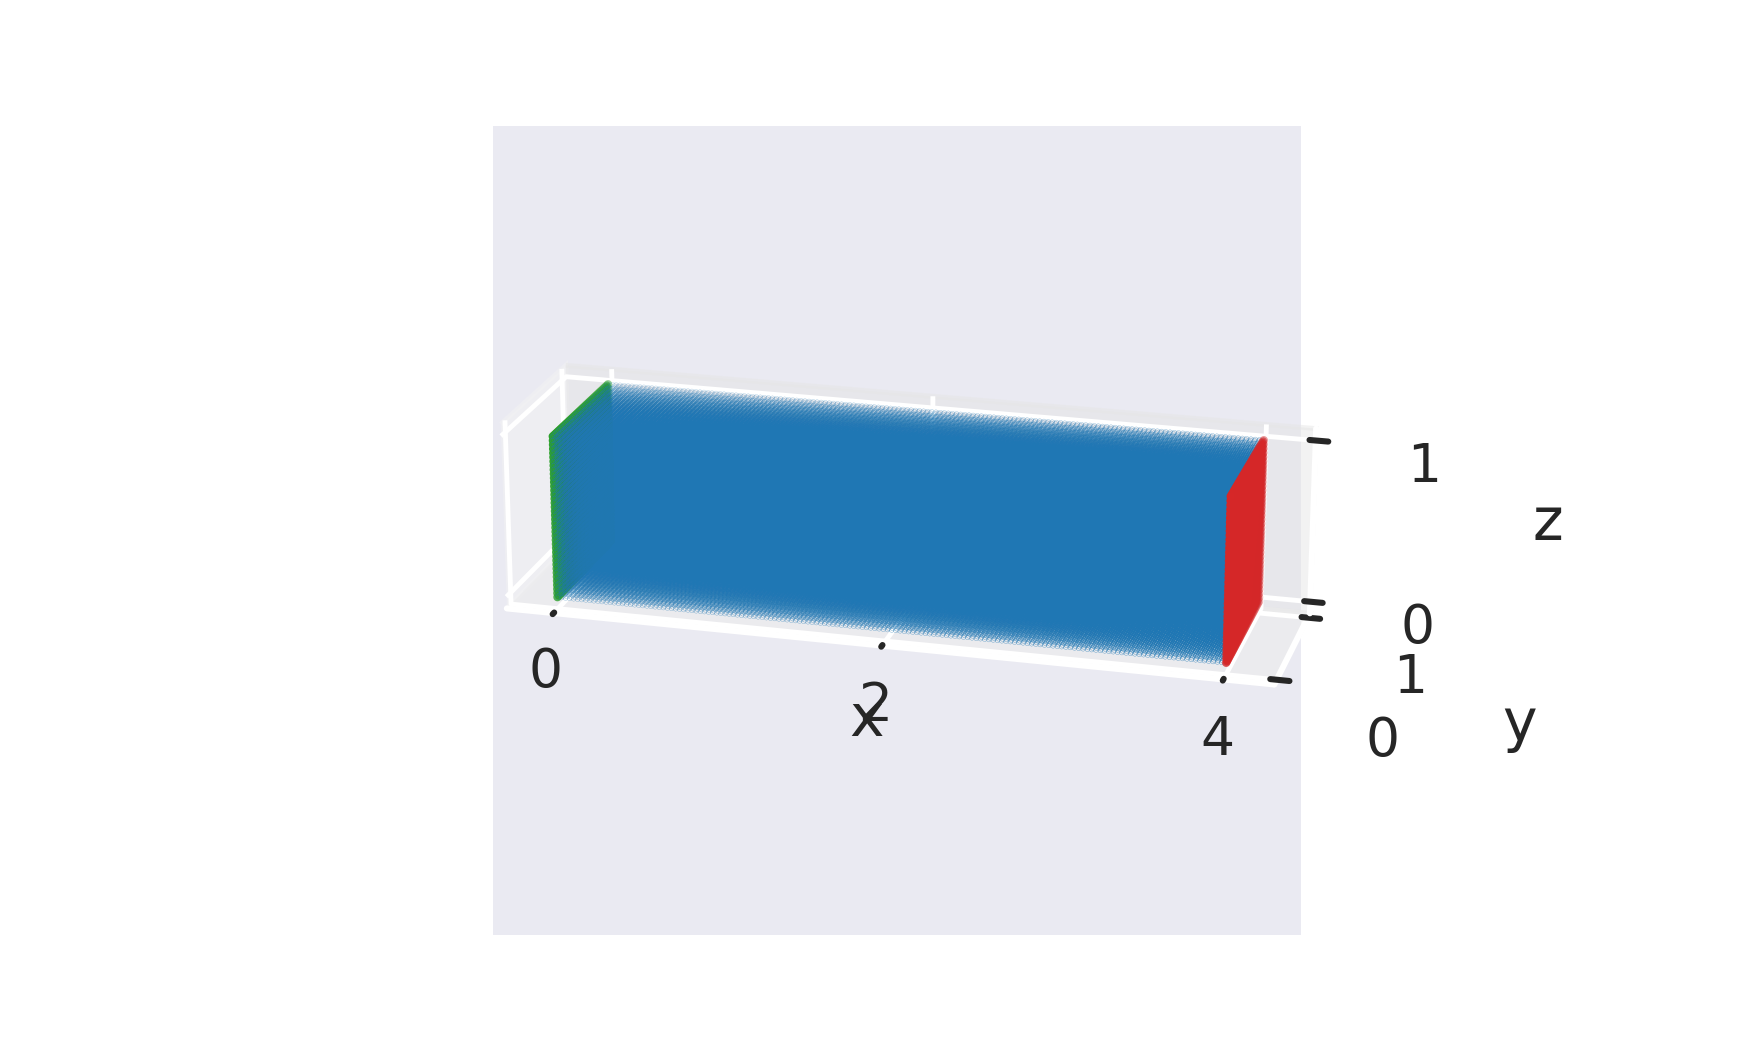
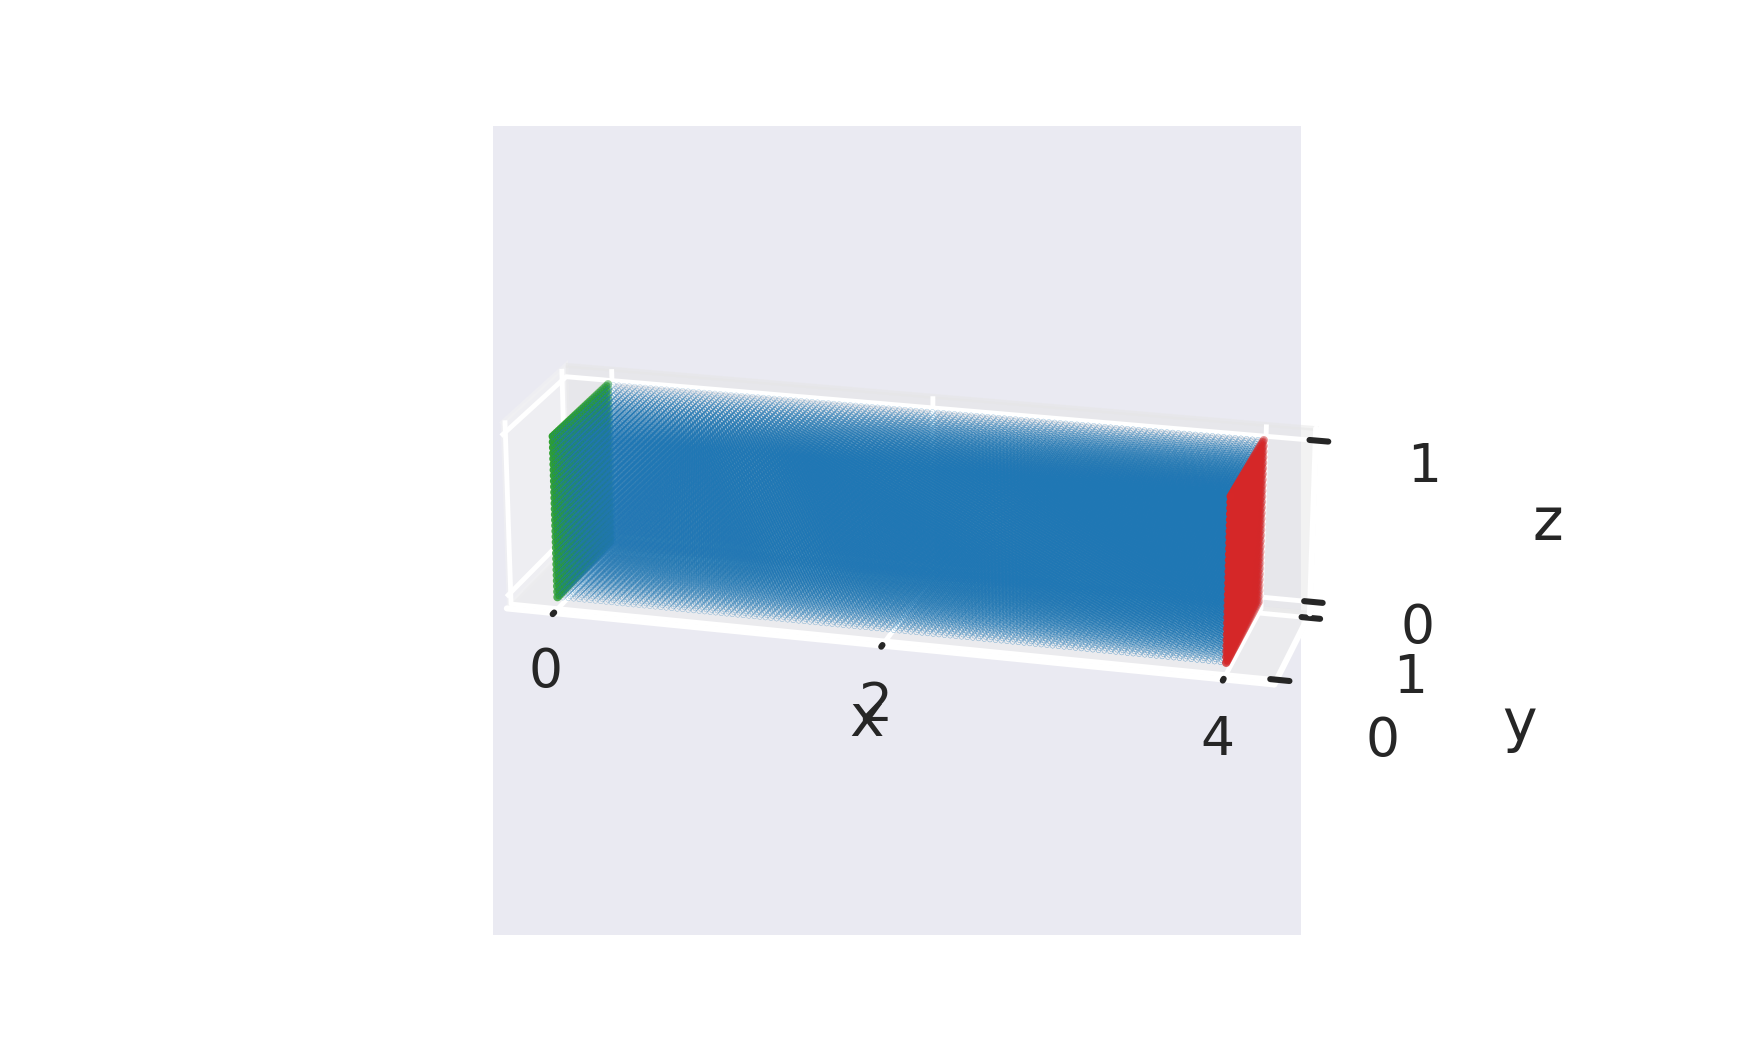
write functions for 3Dcube

Changed region(s): [[0.3086, 0.3657, 0.7097, 0.64]]

diff --git a/3DBeam/DemBeam3D.py b/3DBeam/DemBeam3D.py
@@ -16,12 +16,12 @@ sns.set()
 
 import sys
 sys.path.insert(0, "..")
-from DEM import DeepEnergyMethod, MultiLayerNet, dev
+from DEM import DeepEnergyMethod, MultiLayerNet, dev, L2norm3D
 
 # np.random.seed(2023)
 torch.manual_seed(2023)
 rng = np.random.default_rng(2023)
-dev = torch.device('cuda') if torch.cuda.is_available() else torch.device('cpu')
+
 current_path = Path.cwd().resolve()
 figures_path = current_path / 'figures'
 arrays_path = current_path / 'stored_arrays'
@@ -49,8 +49,11 @@ d_cond = [0, 0, 0]
 n_boundary = L
 n_cond = [0, -5, 0]
 
-def define_domain(L, H, D, N=25):
-    x = np.linspace(0, L, int(4*N))
+dir_bcs = {d_boundary: d_cond}
+neu_bcs = {n_boundary: n_cond}
+
+def define_domain(L, H, D, N=25, dir_bcs=None, neu_bcs=None):
+    x = np.linspace(0, L, 4*N)
     y = np.linspace(0, H, N)
     z = np.linspace(0, D, N)
 
@@ -156,20 +159,6 @@ def write_vtk_v2(filename, x_space, y_space, z_space, U):
     xx, yy, zz = np.meshgrid(x_space, y_space, z_space)
     gridToVTK(filename, xx, yy, zz, pointData={"displacement": U})
 
-def L2norm(U):
-    ### function from DEM paper ###
-    Ux = np.expand_dims(U[0].flatten(), 1)
-    Uy = np.expand_dims(U[1].flatten(), 1)
-    Uz = np.expand_dims(U[2].flatten(), 1)
-    Uxyz = np.concatenate((Ux, Uy, Uz), axis=1)
-    n = Ux.shape[0]
-    udotu = np.zeros(n)
-    for i in range(n):
-        udotu[i] = np.dot(Uxyz[i,:], Uxyz[i,:].T)
-    udotu = udotu.reshape(4*N_test, N_test, N_test)
-    L2norm = np.sqrt(sp.simps(sp.simps(sp.simps(udotu, dx=dz), dx=dy), dx=dx))
-    return L2norm
-
 ### Skrive blokkene til en egen funksjon? Kalles på helt likt inne i loopene ###
 def train_and_evaluate(Ns=20, lrs=0.1, num_neurons=20, num_layers=2, num_epochs=40, max_it=20):
     # train on many N values
@@ -186,23 +175,7 @@ def train_and_evaluate(Ns=20, lrs=0.1, num_neurons=20, num_layers=2, num_epochs=
             # evaluate model
             U_pred = DemBeam.evaluate_model(x, y, z)
             # calculate L2norm
-            u_norms[i] = L2norm(U_pred)
-    # train on many N values and learning rates
-    if isinstance((Ns and lrs), (list, tuple)):
-        print('Ns and lrs')
-        u_norms = np.zeros((len(lrs), len(Ns)))
-        for j, N in enumerate(Ns):
-            for i, lr in enumerate(lrs):
-                # define model, DEM and domain
-                model = MultiLayerNet(3, *([num_neurons]*num_layers), 3)
-                DemBeam = DeepEnergyMethod(model, energy)
-                domain, dirichlet, neumann = define_domain(L, H, D, N=N)
-                # train model
-                DemBeam.train_model(domain, dirichlet, neumann, LHD, lr=lr, max_it=max_it, epochs=num_epochs)
-                # evaluate model
-                U_pred = DemBeam.evaluate_model(x, y, z)
-                # calculate L2norm
-                u_norms[i, j] = L2norm(U_pred)
+            u_norms[i] = L2norm3D(U_pred, 4*N_test, N_test, N_test, dx, dy, dz)
     # train on many learning rates and number of neurons in hidden layers
     elif isinstance((lrs and num_neurons), (list, tuple)):
         print('lrs, num_n')
@@ -216,7 +189,7 @@ def train_and_evaluate(Ns=20, lrs=0.1, num_neurons=20, num_layers=2, num_epochs=
                 DemBeam.train_model(domain, dirichlet, neumann, LHD, lr=lr, max_it=max_it, epochs=num_epochs)
                 U_pred = DemBeam.evaluate_model(x, y, z)
 
-                u_norms[i, j] = L2norm(U_pred)
+                u_norms[i, j] = L2norm3D(U_pred, 4*N_test, N_test, N_test, dx, dy, dz)
     # train on many learning rates and number of hidden layers
     elif isinstance((lrs and num_layers), (list, tuple)):
         print('lrs, num_l')
@@ -230,7 +203,7 @@ def train_and_evaluate(Ns=20, lrs=0.1, num_neurons=20, num_layers=2, num_epochs=
                 # evaluate model
                 U_pred = DemBeam.evaluate_model(x, y, z)
 
-                u_norms[i, j] = L2norm(U_pred)
+                u_norms[i, j] = L2norm3D(U_pred, 4*N_test, N_test, N_test, dx, dy, dz)
     # train on number of neurons in hidden layers and number of hidden layers
     elif isinstance((num_neurons and num_layers), (list, tuple)):
         print('num_n, num_l')
@@ -244,14 +217,32 @@ def train_and_evaluate(Ns=20, lrs=0.1, num_neurons=20, num_layers=2, num_epochs=
                 # evaluate model
                 U_pred = DemBeam.evaluate_model(x, y, z)
 
-                u_norms[i, j] = L2norm(U_pred)
-
+                u_norms[i, j] = L2norm3D(U_pred, 4*N_test, N_test, N_test, dx, dy, dz)
+    # train on many N values and learning rates
+    elif isinstance((Ns and lrs), (list, tuple)):
+        # print(type(Ns), type(lrs), isinstance((Ns and lrs), list), Ns); exit()
+        print('Ns and lrs')
+        u_norms = np.zeros((len(lrs), len(Ns)))
+        for j, N in enumerate(Ns):
+            for i, lr in enumerate(lrs):
+                # define model, DEM and domain
+                model = MultiLayerNet(3, *([num_neurons]*num_layers), 3)
+                DemBeam = DeepEnergyMethod(model, energy)
+                domain, dirichlet, neumann = define_domain(L, H, D, N=N)
+                # train model
+                DemBeam.train_model(domain, dirichlet, neumann, LHD, lr=lr, max_it=max_it, epochs=num_epochs)
+                # evaluate model
+                U_pred = DemBeam.evaluate_model(x, y, z)
+                # calculate L2norm
+                u_norms[i, j] = L2norm3D(U_pred, 4*N_test, N_test, N_test, dx, dy, dz)
     else:
         raise Exception('You have to provide a list of N values or one of the following:\n' + 
                         '\t- lrs AND num_neurons\n\t- lrs AND num_layers\n\t- num_neurons AND num_layers')
     return u_norms
 
-def function_to_be_called_inside_train_and_eval(N, lr, num_neurons, num_layers, num_epochs, max_it):
+### implementere med define_domain som input? 
+### kan bruke samme funksjon i alle 3D filene
+def function_to_be_called_inside_train_and_eval(define_domain, N, lr, num_neurons, num_layers, num_epochs, max_it):
     # define model, DEM and domain
     model = MultiLayerNet(3, *([num_neurons]*num_layers), 3)
     DemBeam = DeepEnergyMethod(model, energy)
@@ -274,7 +265,6 @@ def plot_heatmap(data, xparameter, yparameter, title, xlabel, ylabel, figname, c
     ax.set_ylabel(ylabel)
     fig.savefig(figures_path / Path(figname + '.pdf'))
 
-
 if __name__ == '__main__':
     u_fem30 = np.load('stored_arrays/u_fem_N=30.npy')
     print(f'FEM: {L2norm(u_fem30)} \n')
@@ -290,40 +280,42 @@ if __name__ == '__main__':
     # print((U_norms - L2norm(u_fem30))/L2norm(u_fem30))
 
     # N = 30
-    # lrs = [.05, .1, .5, 1]
+    # lrs = [.05, .1, .5, .9]
     # num_layers = [2, 3, 4, 5]
     # num_neurons = 30
     # num_expreriments = 30
     # U_norms = 0
     # for i in range(num_expreriments):
-    #     U_norms += train_and_evaluate(Ns=N, lrs=lrs, num_neurons=num_neurons, num_layers=num_layers, num_epochs=40)
+    #     U_norms += train_and_evaluate(Ns=N, lrs=lrs, num_neurons=num_neurons, num_layers=num_layers, num_epochs=80)
     # U_norms /= num_expreriments
     # e_norms = (U_norms - L2norm(u_fem30)) / L2norm(u_fem30)
-    # plot_heatmap(e_norms, num_layers, lrs, rf'$L^2$ error norm with N={N} and {num_neurons} hidden neurons', 'Number of layers', r'$\eta$', 'heatmap_lrs_num_layers')
+    # plot_heatmap(e_norms, num_layers, lrs, rf'$L^2$ error norm with N={N} and {num_neurons} hidden neurons', 'Number of layers', r'$\eta$', 'heatmap_lrs_num_layers80')
 
-    Ns = [20, 30, 40, 50, 60]
-    lrs = [.05, .1, .5, .9]
+
+    N = 30
+    lrs = [.05, .1, .5, 1]
     num_layers = 3
-    num_neurons = 30
+    num_neurons = [10, 20, 30, 40, 50]
     num_expreriments = 30
     U_norms = 0
     for i in range(num_expreriments):
-        U_norms += train_and_evaluate(Ns=Ns, lrs=lrs, num_neurons=num_neurons, num_layers=num_layers, num_epochs=40)
+        U_norms += train_and_evaluate(Ns=N, lrs=lrs, num_neurons=num_neurons, num_layers=num_layers, num_epochs=80)
     U_norms /= num_expreriments
-    print(U_norms)
     e_norms = (U_norms - L2norm(u_fem30)) / L2norm(u_fem30)
-    plot_heatmap(e_norms, Ns, lrs, rf'$L^2$ error norm with {num_neurons} hidden neurons and {num_layers} hidden layers', 'N', r'$\eta$', 'heatmap_lrs_N')
+    plot_heatmap(e_norms, num_neurons, lrs, rf'$L^2$ error norm with N={N} and {num_layers} hidden layers', 'Number of neurons in hidden layers', r'$\eta$', 'heatmap_lrs_num_neurons80')
+    print(U_norms)
+    print((U_norms - L2norm(u_fem30))/L2norm(u_fem30))
 
-    # N = 30
-    # lrs = [.05, .1, .5, 1]
+
+    # Ns = [20, 30, 40, 50, 60]
+    # lrs = [.05, .1, .5, .9]
     # num_layers = 3
-    # num_neurons = [10, 20, 30, 40, 50]
+    # num_neurons = 30
     # num_expreriments = 30
     # U_norms = 0
     # for i in range(num_expreriments):
-    #     U_norms += train_and_evaluate(Ns=N, lrs=lrs, num_neurons=num_neurons, num_layers=num_layers, num_epochs=40)
+    #     U_norms += train_and_evaluate(Ns=Ns, lrs=lrs, num_neurons=num_neurons, num_layers=num_layers, num_epochs=40)
     # U_norms /= num_expreriments
+    # print(U_norms)
     # e_norms = (U_norms - L2norm(u_fem30)) / L2norm(u_fem30)
-    # plot_heatmap(e_norms, num_neurons, lrs, rf'$L^2$ error norm with N={N} and {num_layers} hidden layers', 'Number of neurons in hidden layers', r'$\eta$', 'heatmap_lrs_num_neurons')
-    # print(U_norms)q
-    # print((U_norms - L2norm(u_fem30))/L2norm(u_fem30))
+    # plot_heatmap(e_norms, Ns, lrs, rf'$L^2$ error norm with {num_neurons} hidden neurons and {num_layers} hidden layers', 'N', r'$\eta$', 'heatmap_lrs_N')

diff --git a/CubeEx/DemCube.py b/CubeEx/DemCube.py
@@ -4,21 +4,29 @@ import matplotlib.pyplot as plt
 import torch
 from torch import nn
 from torch.autograd import grad
+from pyevtk.hl import gridToVTK
+from pathlib import Path
 
 import matplotlib
 matplotlib.rcParams['figure.dpi'] = 350
 
 import sys
 sys.path.insert(0, "..")
-from DEM import DeepEnergyMethod, dev, MultiLayerNet
+from DEM import DeepEnergyMethod, dev, MultiLayerNet, L2norm3D
 
 torch.manual_seed(2023)
 rng = np.random.default_rng(2023)
 # dev = torch.device('cuda') if torch.cuda.is_available() else torch.device('cpu')
 
-N = 20
+current_path = Path.cwd().resolve()
+figures_path = current_path / 'figures'
+arrays_path = current_path / 'stored_arrays'
+models_path = current_path / 'trained_models'
+
+N_test = 20
 L = H = D = 1.0
-dx = dy = dz = L/N
+LHD = [L, H, D]
+dx = dy = dz = L/N_test
 
 d_boundary = 0.0
 d_cond = [0, 0, 0]
@@ -26,8 +34,8 @@ d_cond = [0, 0, 0]
 n_boundary = L
 n_cond = [-0.5, 0, 0]
 
-def domain(l, h, d, N=25):
-    x = np.linspace(0, L, int(4*N))
+def define_domain(l, h, d, N=25):
+    x = np.linspace(0, L, N)
     y = np.linspace(0, H, N)
     z = np.linspace(0, D, N)
 
@@ -103,7 +111,7 @@ nu = 0.3
 mu = E / (2*(1 + nu))
 
 # mu = 15
-def Psi(u, x):
+def energy(u, x):
     # f0 = torch.from_numpy(np.array([1, 0, 0]))
     kappa = 1e3
     Ta = 1.0
@@ -134,24 +142,97 @@ def Psi(u, x):
     return compressibility + neo_hookean + active_stress_energy
 
 
-def loss_squared_sum(input, target):
-    return torch.sum((input - target)**2, dim=1) / input.shape[1]*input.data.nelement()
+### Skrive blokkene til en egen funksjon? Kalles på helt likt inne i loopene ###
+def train_and_evaluate(Ns=20, lrs=0.1, num_neurons=20, num_layers=2, num_epochs=40, max_it=20):
+    # train on many N values
+    if isinstance((Ns and not lrs), (list, tuple)):
+        print('Ns')
+        u_norms = np.zeros(len(Ns))
+        for i, N in enumerate(Ns):
+            # define model, DEM and domain
+            model = MultiLayerNet(3, *([num_neurons]*num_layers), 3)
+            DemBeam = DeepEnergyMethod(model, energy)
+            domain, dirichlet, neumann = define_domain(L, H, D, N=N)
+            # train model
+            DemBeam.train_model(domain, dirichlet, neumann, LHD, lr=lrs, max_it=max_it, epochs=num_epochs)
+            # evaluate model
+            U_pred = DemBeam.evaluate_model(x, y, z)
+            # calculate L2norm
+            u_norms[i] = L2norm3D(U_pred, N_test, N_test, N_test, dx, dy, dz)
+    # train on many learning rates and number of neurons in hidden layers
+    elif isinstance((lrs and num_neurons), (list, tuple)):
+        print('lrs, num_n')
+        u_norms = np.zeros((len(lrs), len(num_neurons)))
+        for j, n in enumerate(num_neurons):
+            for i, lr in enumerate(lrs):
+                model = MultiLayerNet(3, *([n]*num_layers), 3)
+                DemBeam = DeepEnergyMethod(model, energy)
+                domain, dirichlet, neumann = define_domain(L, H, D, N=Ns)
 
-def penalty(input):
-    return torch.sum(input) / input.data.nelement()
+                DemBeam.train_model(domain, dirichlet, neumann, LHD, lr=lr, max_it=max_it, epochs=num_epochs)
+                U_pred = DemBeam.evaluate_model(x, y, z)
 
-from pyevtk.hl import gridToVTK
+                u_norms[i, j] = L2norm3D(U_pred, N_test, N_test, N_test, dx, dy, dz)
+    # train on many learning rates and number of hidden layers
+    elif isinstance((lrs and num_layers), (list, tuple)):
+        print('lrs, num_l')
+        u_norms = np.zeros((len(lrs), len(num_layers)))
+        for j, l in enumerate(num_layers):
+            for i, lr in enumerate(lrs):
+                model = MultiLayerNet(3, *([num_neurons]*l), 3)
+                DemBeam = DeepEnergyMethod(model, energy)
+                domain, dirichlet, neumann = define_domain(L, H, D, N=Ns)
+                DemBeam.train_model(domain, dirichlet, neumann, LHD, lr=lr, max_it=max_it, epochs=num_epochs)
+                # evaluate model
+                U_pred = DemBeam.evaluate_model(x, y, z)
+
+                u_norms[i, j] = L2norm3D(U_pred, N_test, N_test, N_test, dx, dy, dz)
+    # train on number of neurons in hidden layers and number of hidden layers
+    elif isinstance((num_neurons and num_layers), (list, tuple)):
+        print('num_n, num_l')
+        u_norms = np.zeros((len(num_neurons), len(num_layers)))
+        for j, n in enumerate(num_neurons):
+            for i, l in enumerate(num_layers):
+                model = MultiLayerNet(3, *([n]*l), 3)
+                DemBeam = DeepEnergyMethod(model, energy)
+                domain, dirichlet, neumann = define_domain(L, H, D, N=Ns)
+                DemBeam.train_model(domain, dirichlet, neumann, LHD, lr=lrs, max_it=max_it, epochs=num_epochs)
+                # evaluate model
+                U_pred = DemBeam.evaluate_model(x, y, z)
+
+                u_norms[i, j] = L2norm3D(U_pred, N_test, N_test, N_test, dx, dy, dz)
+    # train on many N values and learning rates
+    elif isinstance((Ns and lrs), (list, tuple)):
+        # print(type(Ns), type(lrs), isinstance((Ns and lrs), list), Ns); exit()
+        print('Ns and lrs')
+        u_norms = np.zeros((len(lrs), len(Ns)))
+        for j, N in enumerate(Ns):
+            for i, lr in enumerate(lrs):
+                # define model, DEM and domain
+                model = MultiLayerNet(3, *([num_neurons]*num_layers), 3)
+                DemBeam = DeepEnergyMethod(model, energy)
+                domain, dirichlet, neumann = define_domain(L, H, D, N=N)
+                # train model
+                DemBeam.train_model(domain, dirichlet, neumann, LHD, lr=lr, max_it=max_it, epochs=num_epochs)
+                # evaluate model
+                U_pred = DemBeam.evaluate_model(x, y, z)
+                # calculate L2norm
+                u_norms[i, j] = L2norm3D(U_pred, N_test, N_test, N_test, dx, dy, dz)
+    else:
+        raise Exception('You have to provide a list of N values or one of the following:\n' + 
+                        '\t- lrs AND num_neurons\n\t- lrs AND num_layers\n\t- num_neurons AND num_layers')
+    return u_norms
 
 def write_vtk_v2(filename, x_space, y_space, z_space, U):
     xx, yy, zz = np.meshgrid(x_space, y_space, z_space)
     gridToVTK(filename, xx, yy, zz, pointData={"displacement": U})
 
 if __name__ == '__main__':
-    domain, dirichlet, neumann = domain(L, H, D)
+    domain, dirichlet, neumann = define_domain(L, H, D)
 
 
     model = MultiLayerNet(3, 30, 30, 30, 3)
-    DemBeam = DeepEnergyMethodCube(model, Psi, 3)
+    DemBeam = DeepEnergyMethodCube(model, energy, 3)
 
     DemBeam.train_model(domain, dirichlet, neumann, [L, H, D], epochs=10)
 
@@ -167,7 +248,7 @@ if __name__ == '__main__':
 
     U = DemBeam.evaluate_model(x, y, z)
     Udem = np.array(U).copy()
-    np.save('u_dem', Udem)
-    write_vtk_v2('output/DemCube', x, y, z, U)
+    # np.save('u_dem', Udem)
+    # write_vtk_v2('output/DemCube', x, y, z, U)
 
     

diff --git a/DEM.py b/DEM.py
@@ -4,6 +4,8 @@ import matplotlib.pyplot as plt
 import torch
 from torch import nn
 from torch.autograd import grad
+import scipy.integrate as sp
+
 import matplotlib
 matplotlib.rcParams['figure.dpi'] = 350
 # np.random.seed(2023)
@@ -79,7 +81,7 @@ class DeepEnergyMethod:
 
                 #       + f'loss: {loss.item():10.5f}')
                 # print(f'Iter: {i+1:2d}, Energy: {energy_loss.item():10.5f}')
-                print(f'Iter: {i+1:2d}, Energy: {loss}')
+                # print(f'Iter: {i+1:2d}, Energy: {loss}')
                 return loss
 
             optimizer.step(closure)
@@ -117,3 +119,17 @@ def loss_squared_sum(input, target):
 
 def penalty(input):
     return torch.sum(input) / input.data.nelement()
+
+def L2norm3D(U, Nx, Ny, Nz, dx, dy, dz):
+    ### function from DEM paper ###
+    Ux = np.expand_dims(U[0].flatten(), 1)
+    Uy = np.expand_dims(U[1].flatten(), 1)
+    Uz = np.expand_dims(U[2].flatten(), 1)
+    Uxyz = np.concatenate((Ux, Uy, Uz), axis=1)
+    n = Ux.shape[0]
+    udotu = np.zeros(n)
+    for i in range(n):
+        udotu[i] = np.dot(Uxyz[i,:], Uxyz[i,:].T)
+    udotu = udotu.reshape(4*Nx, Ny, Nz)
+    L2norm = np.sqrt(sp.simps(sp.simps(sp.simps(udotu, dx=dz), dx=dy), dx=dx))
+    return L2norm
